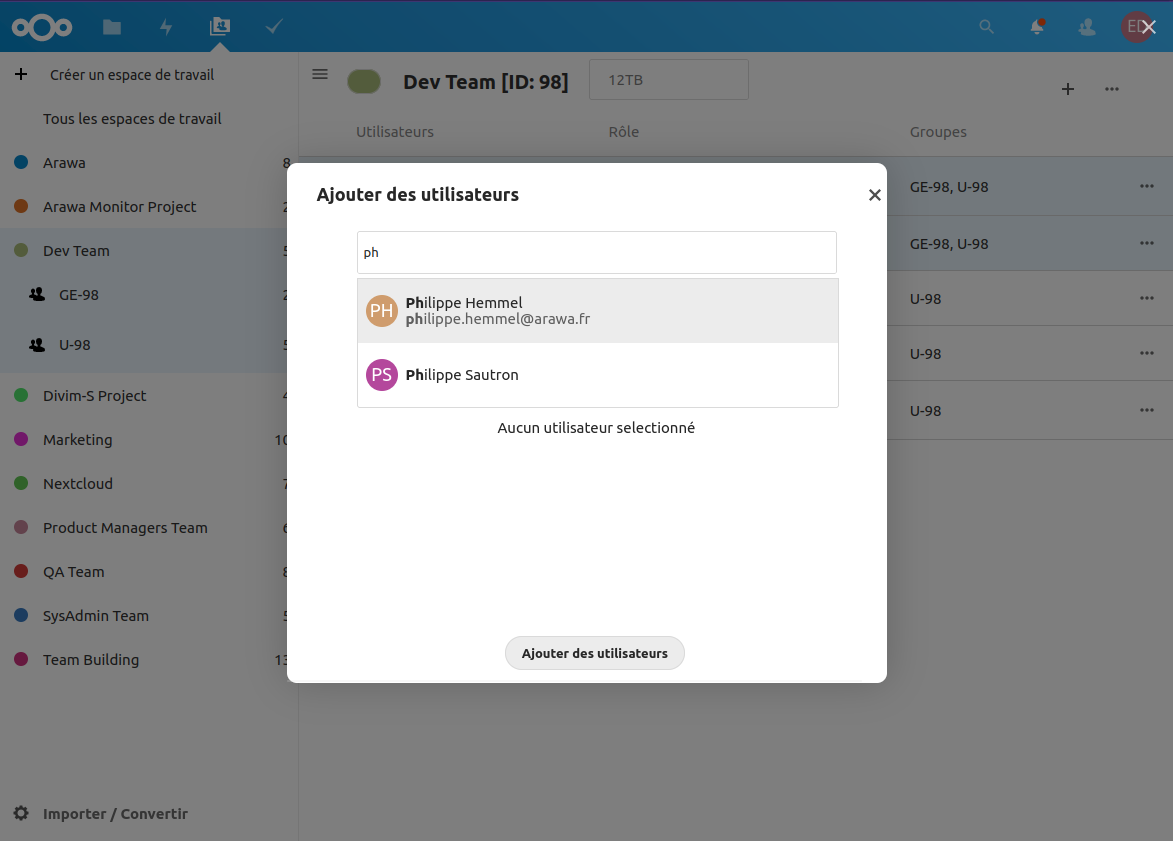
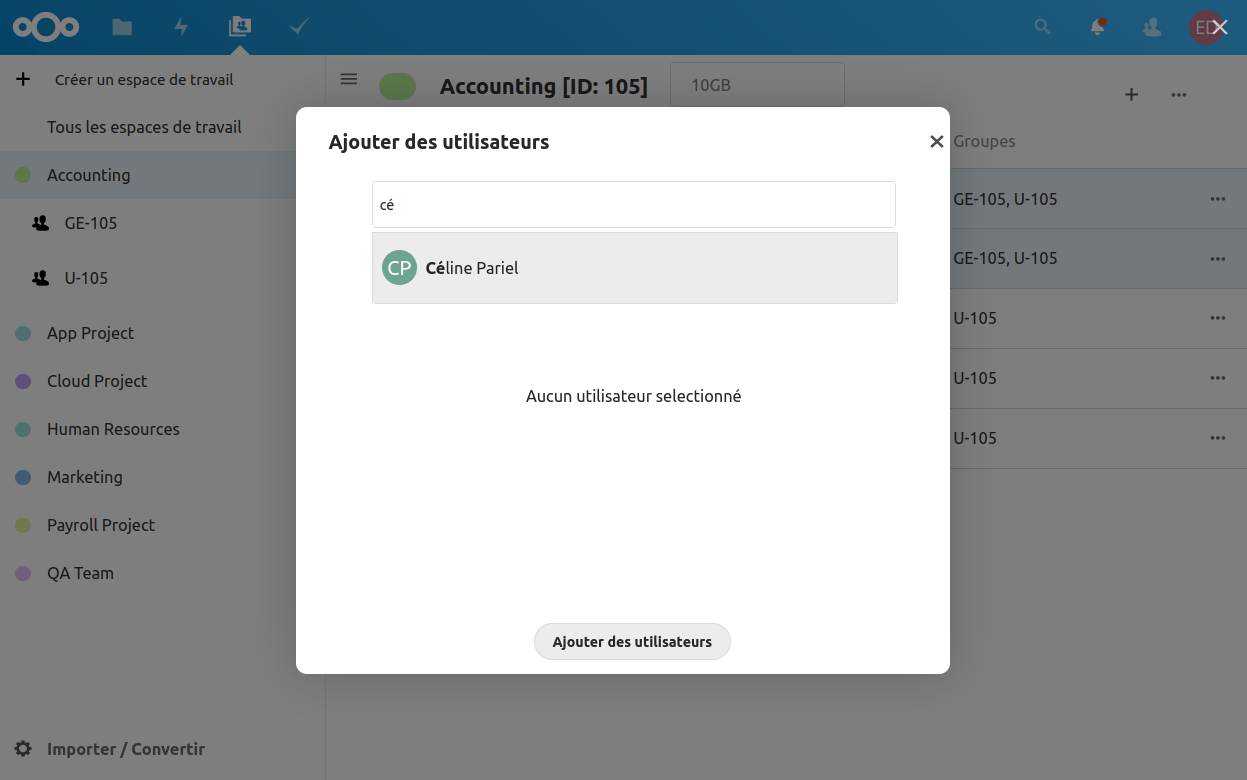
chore(): Update the screenshots
I recreate new spaces with pastel colors

diff --git a/README.md b/README.md
@@ -2,7 +2,7 @@
 Create shared workspaces and delegate management of their members and groups.
 
 <p align="center">
-<img width="100%" src="./screenshots/workspace-home-small.png" alt="Workspace Home">
+<img width="100%" src="./screenshots/workspace-home.png" alt="Workspace Home">
 </p>
 
 Workspace allows managers to :
